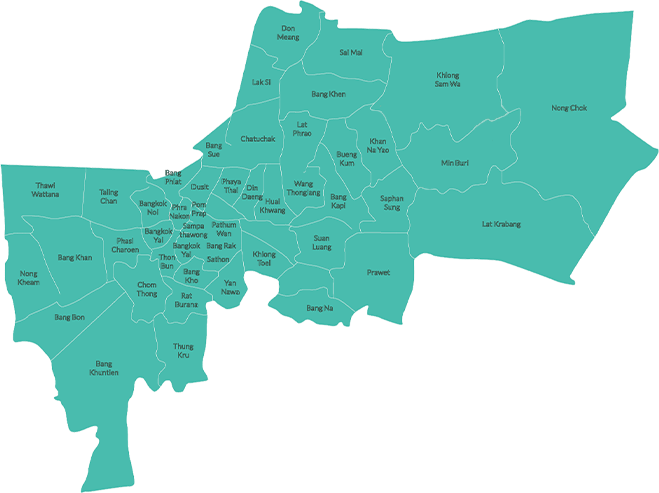
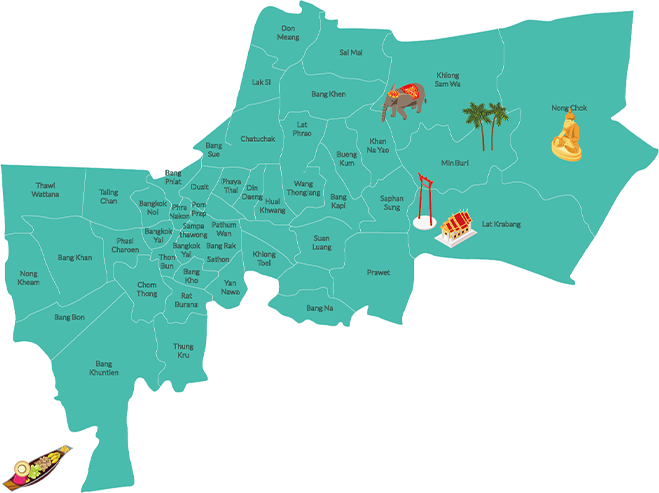
fix promotion

diff --git a/public/event/css/style.css b/public/event/css/style.css
@@ -811,6 +811,13 @@ body {
         position: absolute;
     }
 
+    .promotion_map #location05 .detail_map {
+        top: 19rem;
+        left: 51%;
+        transform: translateX(-50%);
+        position: absolute;
+    }
+
     .promotion_map .img_loca.hover {
         display: none;
     }
@@ -855,6 +862,14 @@ body {
         width: 4.8rem;
     }
 
+    .promotion_map #icon05 .img_loca {
+        width: 3.6rem;
+    }
+
+    .promotion_map #icon05 .hover {
+        width: 4.4rem;
+    }
+
     .promotion_map .location .icon:hover+.location_pop {
         display: block;
     }
@@ -880,7 +895,7 @@ body {
     .promotion_map .location_pop .location_desc:after {
         content: '';
         position: absolute;
-        bottom: -1.3rem;
+        bottom: -1.2rem;
         left: 50%;
         transform: translateX(-50%) rotate(45deg);
         width: 2rem;
@@ -899,6 +914,13 @@ body {
     }
 
     .promotion_map #pop02 .location_desc .ic_pop {
+        position: absolute;
+        top: -7.3rem;
+        left: unset;
+        right: -5.3rem;
+    }
+
+    .promotion_map #pop03 .location_desc .ic_pop {
         position: absolute;
         top: -7.3rem;
         left: unset;

diff --git a/app/Views/event/promotion.php b/app/Views/event/promotion.php
@@ -225,6 +225,28 @@
                         </div>
                     </div>
                 </div>
+                <div class="location" id="location05">
+                    <div class="detail_map">
+                        <div class="icon" id="icon05">
+                            <img src="/event/images/promotion_ic07.png" alt="" class="img_loca">
+                            <img src="/event/images/promotion_ic07_hover.png" alt="" class="img_loca hover">
+                        </div>
+                        <div class="location_pop" id="pop05">
+                            <div class="location_desc">
+                                <div class="ic_pop">
+                                    <img src="/event/images/pop_img02.png" alt="">
+                                </div>
+                                <div class="contents">
+                                    <p>짜뚜짝 시장 등 다양한 테마의 야시장이 도시 <br>
+                                        전역에 있어 먹거리, 쇼핑, 투어가 가능하며 <br>
+                                        길거리 음식을 모두 맛볼 수 있는 찬스! <br>
+                                        <span>대표 명소 : 짜뚜짝, 짯페어, 수언룸 야시장</span>
+                                    </p>
+                                </div>
+                            </div>
+                        </div>
+                    </div>
+                </div>
             </div>
         </div>
     </div>
